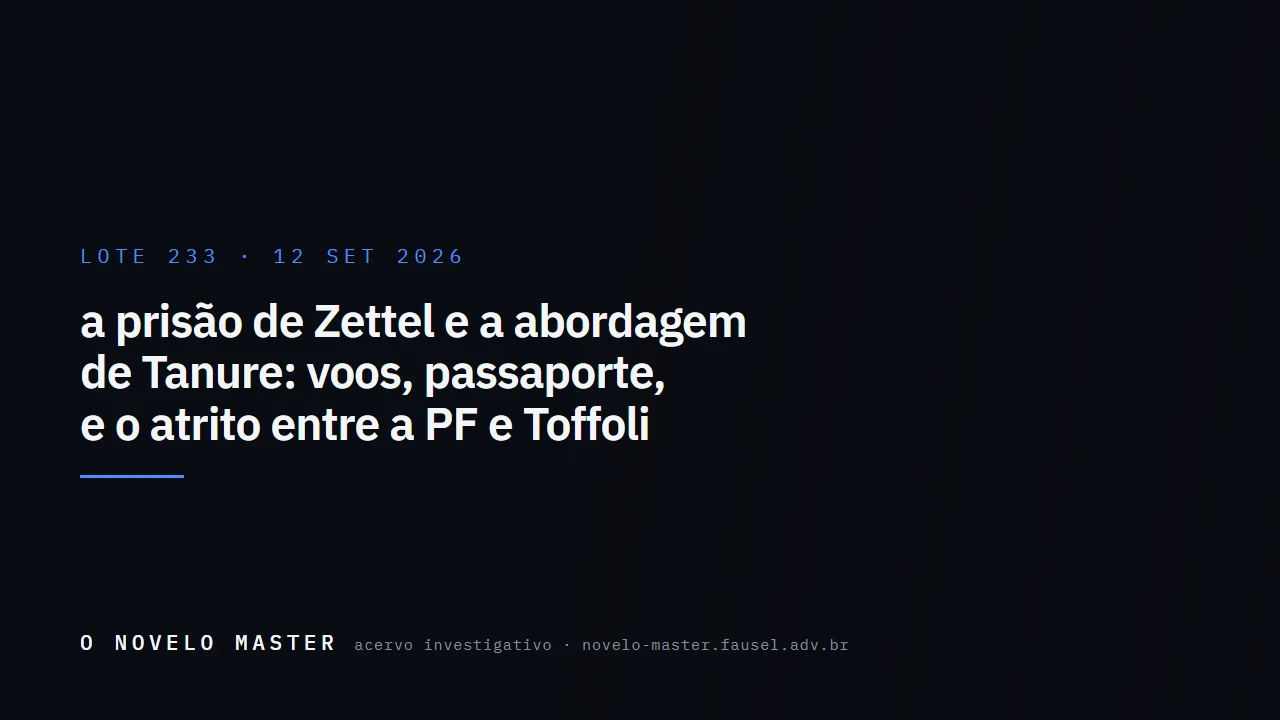
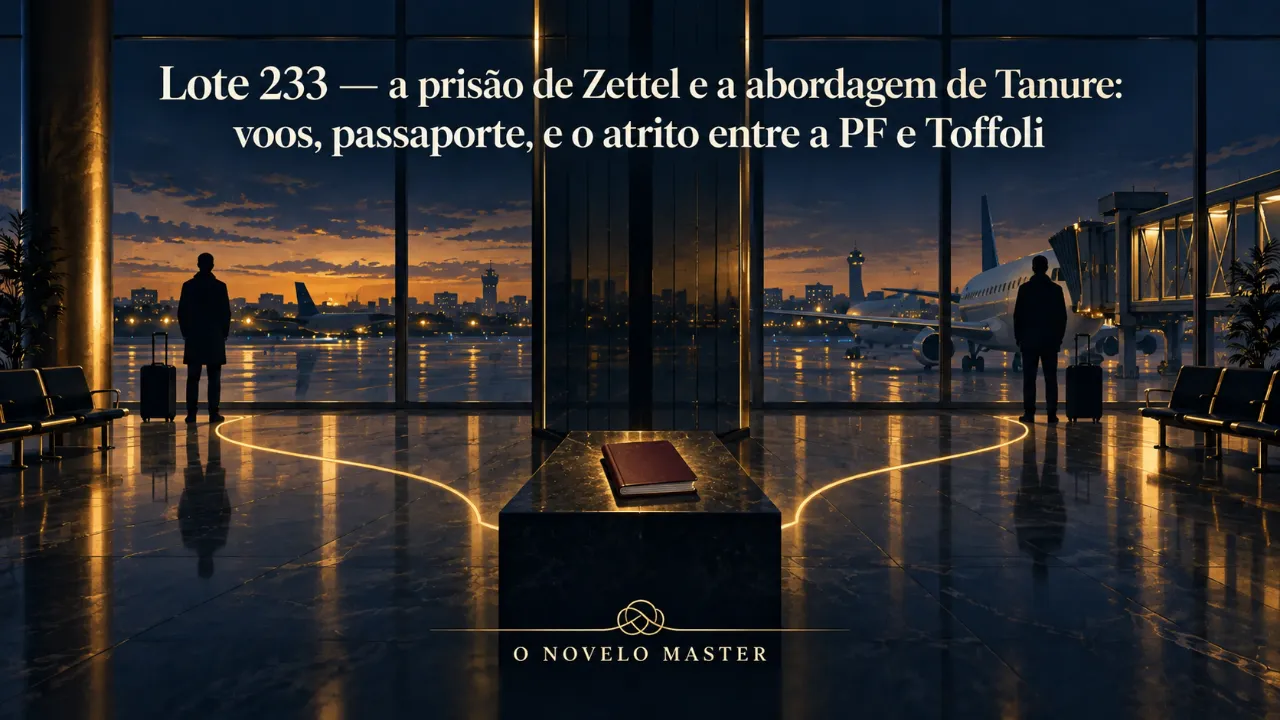
feat(social): ilustrações dos lotes 233 e 234
Publicadas por `social:add` (PNG → WebP 1280x720; 92 e 74 KB), que também as
tira do manifesto de cards.

Checklist da seção 7.1 da EDITORIAL_POLICY, para as duas:
- [x] sem rosto ou pessoa real identificável (só silhuetas genéricas)
- [x] nenhuma é retrato fotorrealista
- [x] nenhuma simula documento, print ou cena de fato específica — no 233, o
      livro vermelho é capa fechada, sem página, número ou dado, dentro da
      exceção cenográfica; aeroporto e corredor são cenário
- [x] nenhuma acrescenta pessoa, fato, número ou alegação ausente da revisão
- [x] texto editorial = título exato da revisão + marca do site
- [x] nenhuma é animada

Varredura das 86 imagens do Codex geradas desde 09/09 (22 sessões): fora estas
duas, nenhuma serve a lote que ainda esteja só com card. 15 não trazem título e
as com título são de lotes já ilustrados (165, 190–217). O lote 235 segue retido
pela regra 3.

Verificado: social:check conforme, build 0; as duas aparecem em /atualizacoes.

diff --git a/CHANGELOG.md b/CHANGELOG.md
@@ -2,6 +2,11 @@
 
 ## Unreleased
 
+- **Ilustrações dos lotes 233 e 234 publicadas**, convertidas de PNG para WebP 1280×720 por
+  `social:add` (92 e 74 KB) e inspecionadas pela seção 7.1. Varredura completa das 86 imagens do
+  Codex geradas desde 09/09: fora estas duas, nenhuma é de lote que ainda esteja só com card — 15 não
+  trazem título (painéis de identidade visual) e as demais são de lotes já ilustrados.
+
 - **`/atualizacoes` volta a mostrar só ilustração.** O card repetia, ao lado do item, o título que o
   texto já traz em corpo legível, e não acrescentava nada ao leitor da página. Ele continua gerado
   para toda revisão em `public/social/`; só não entra na lista.
